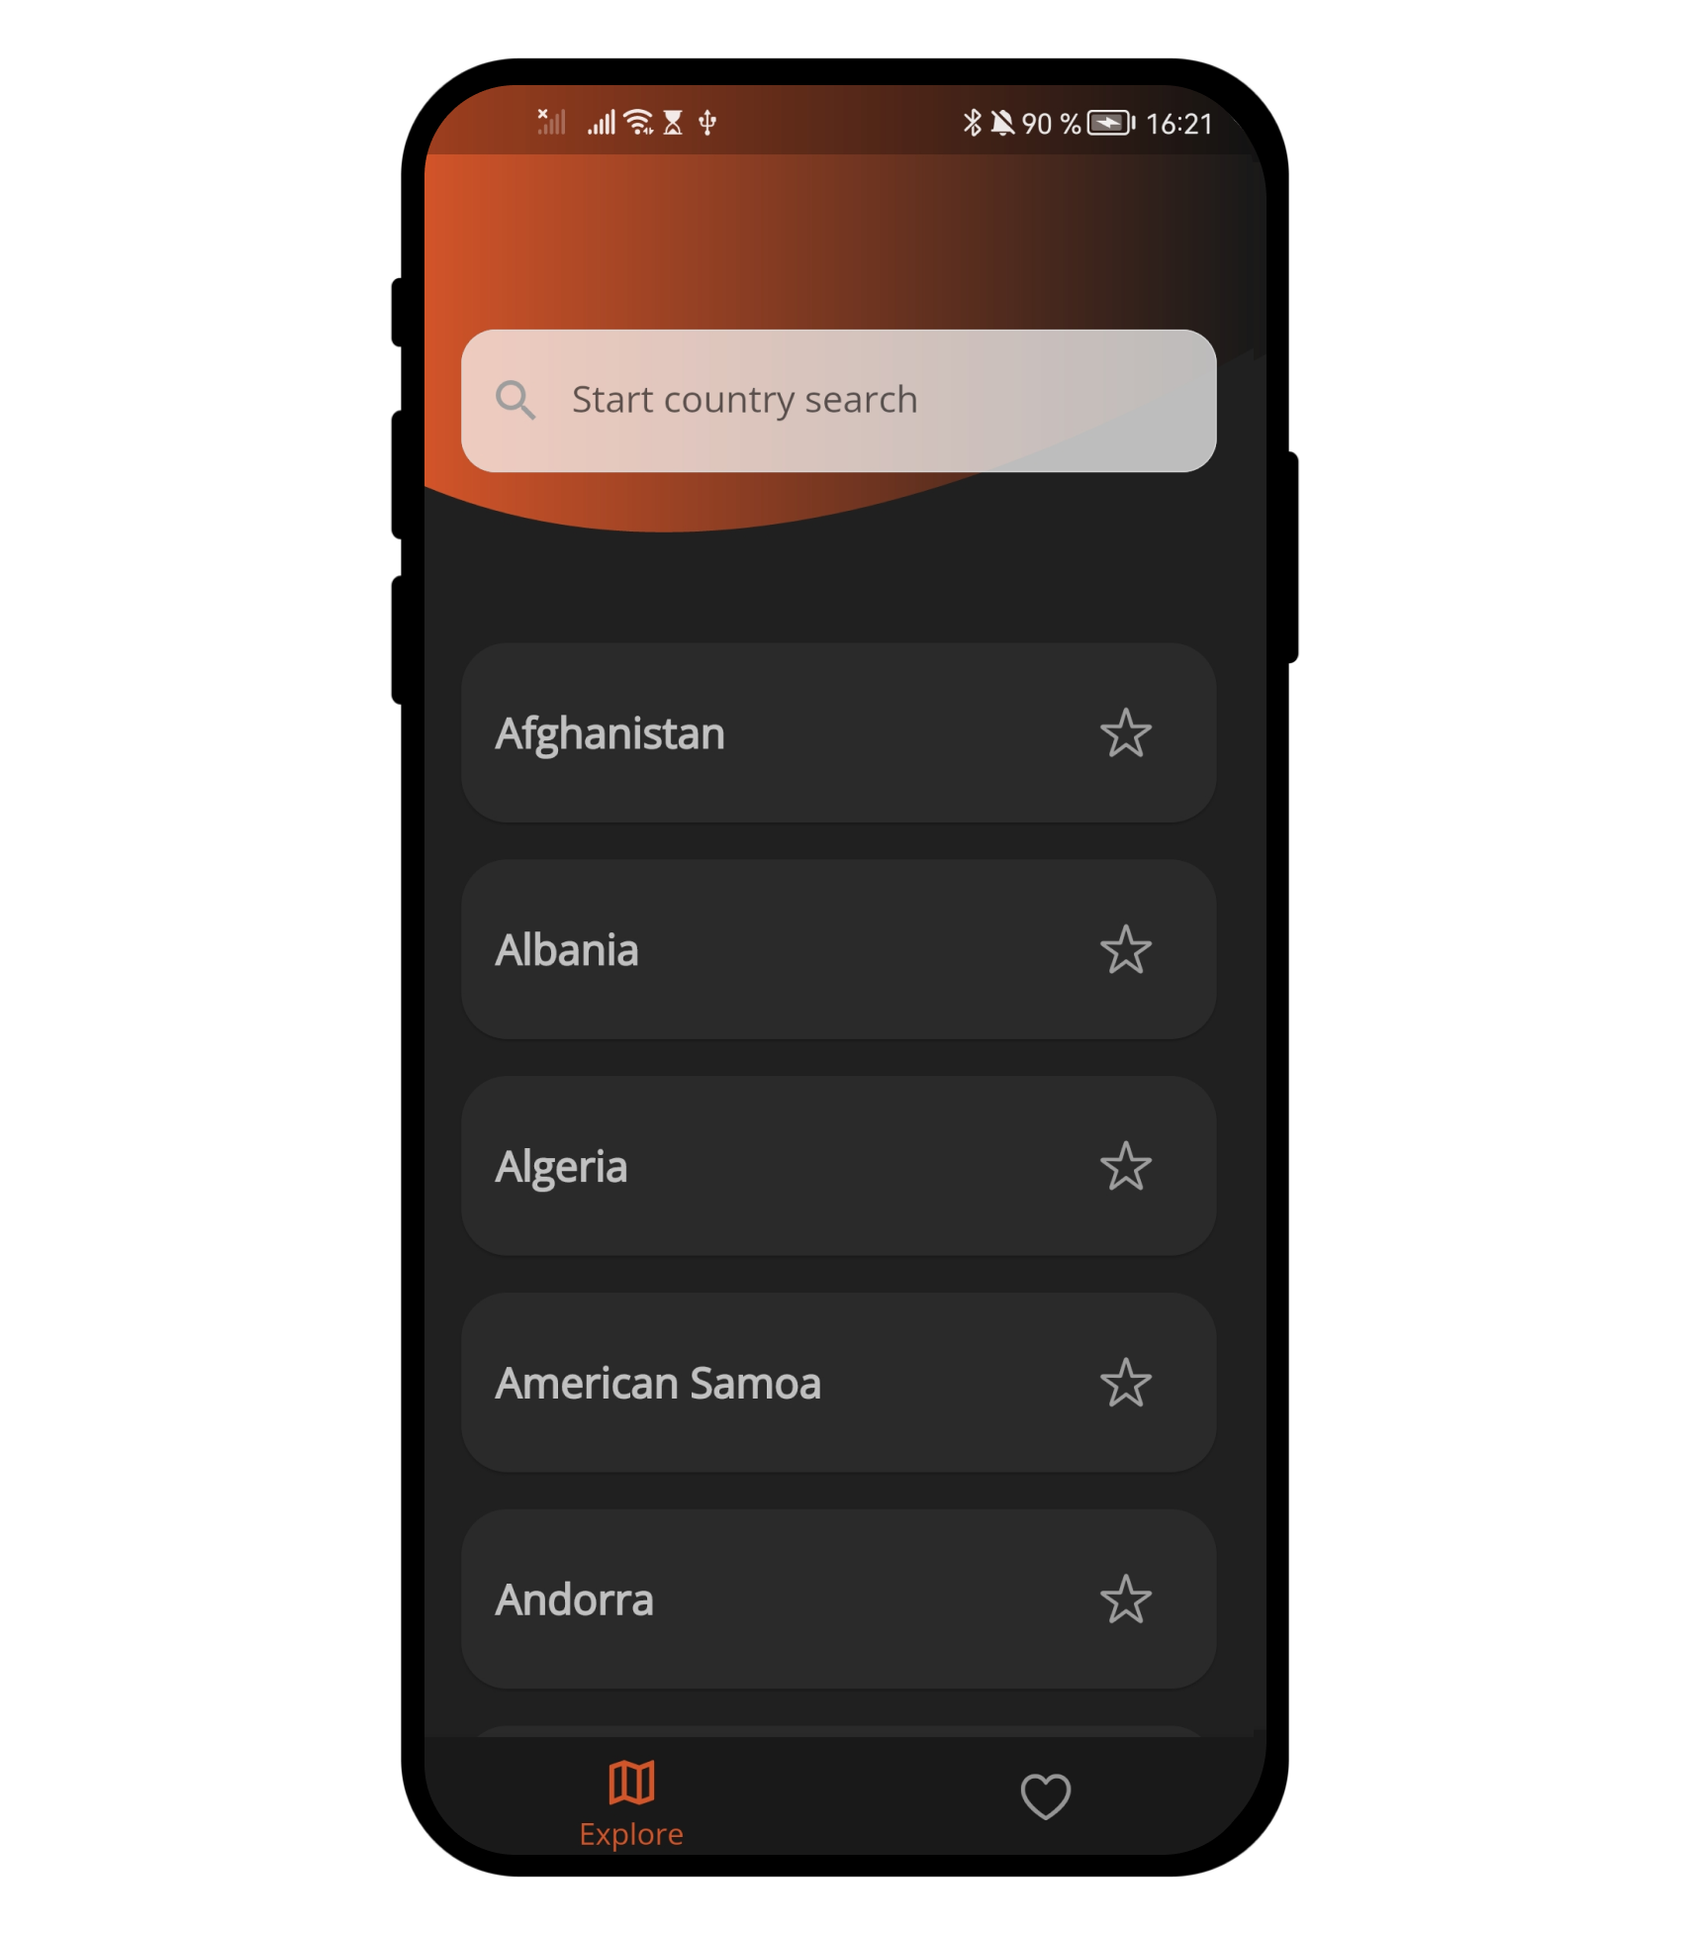
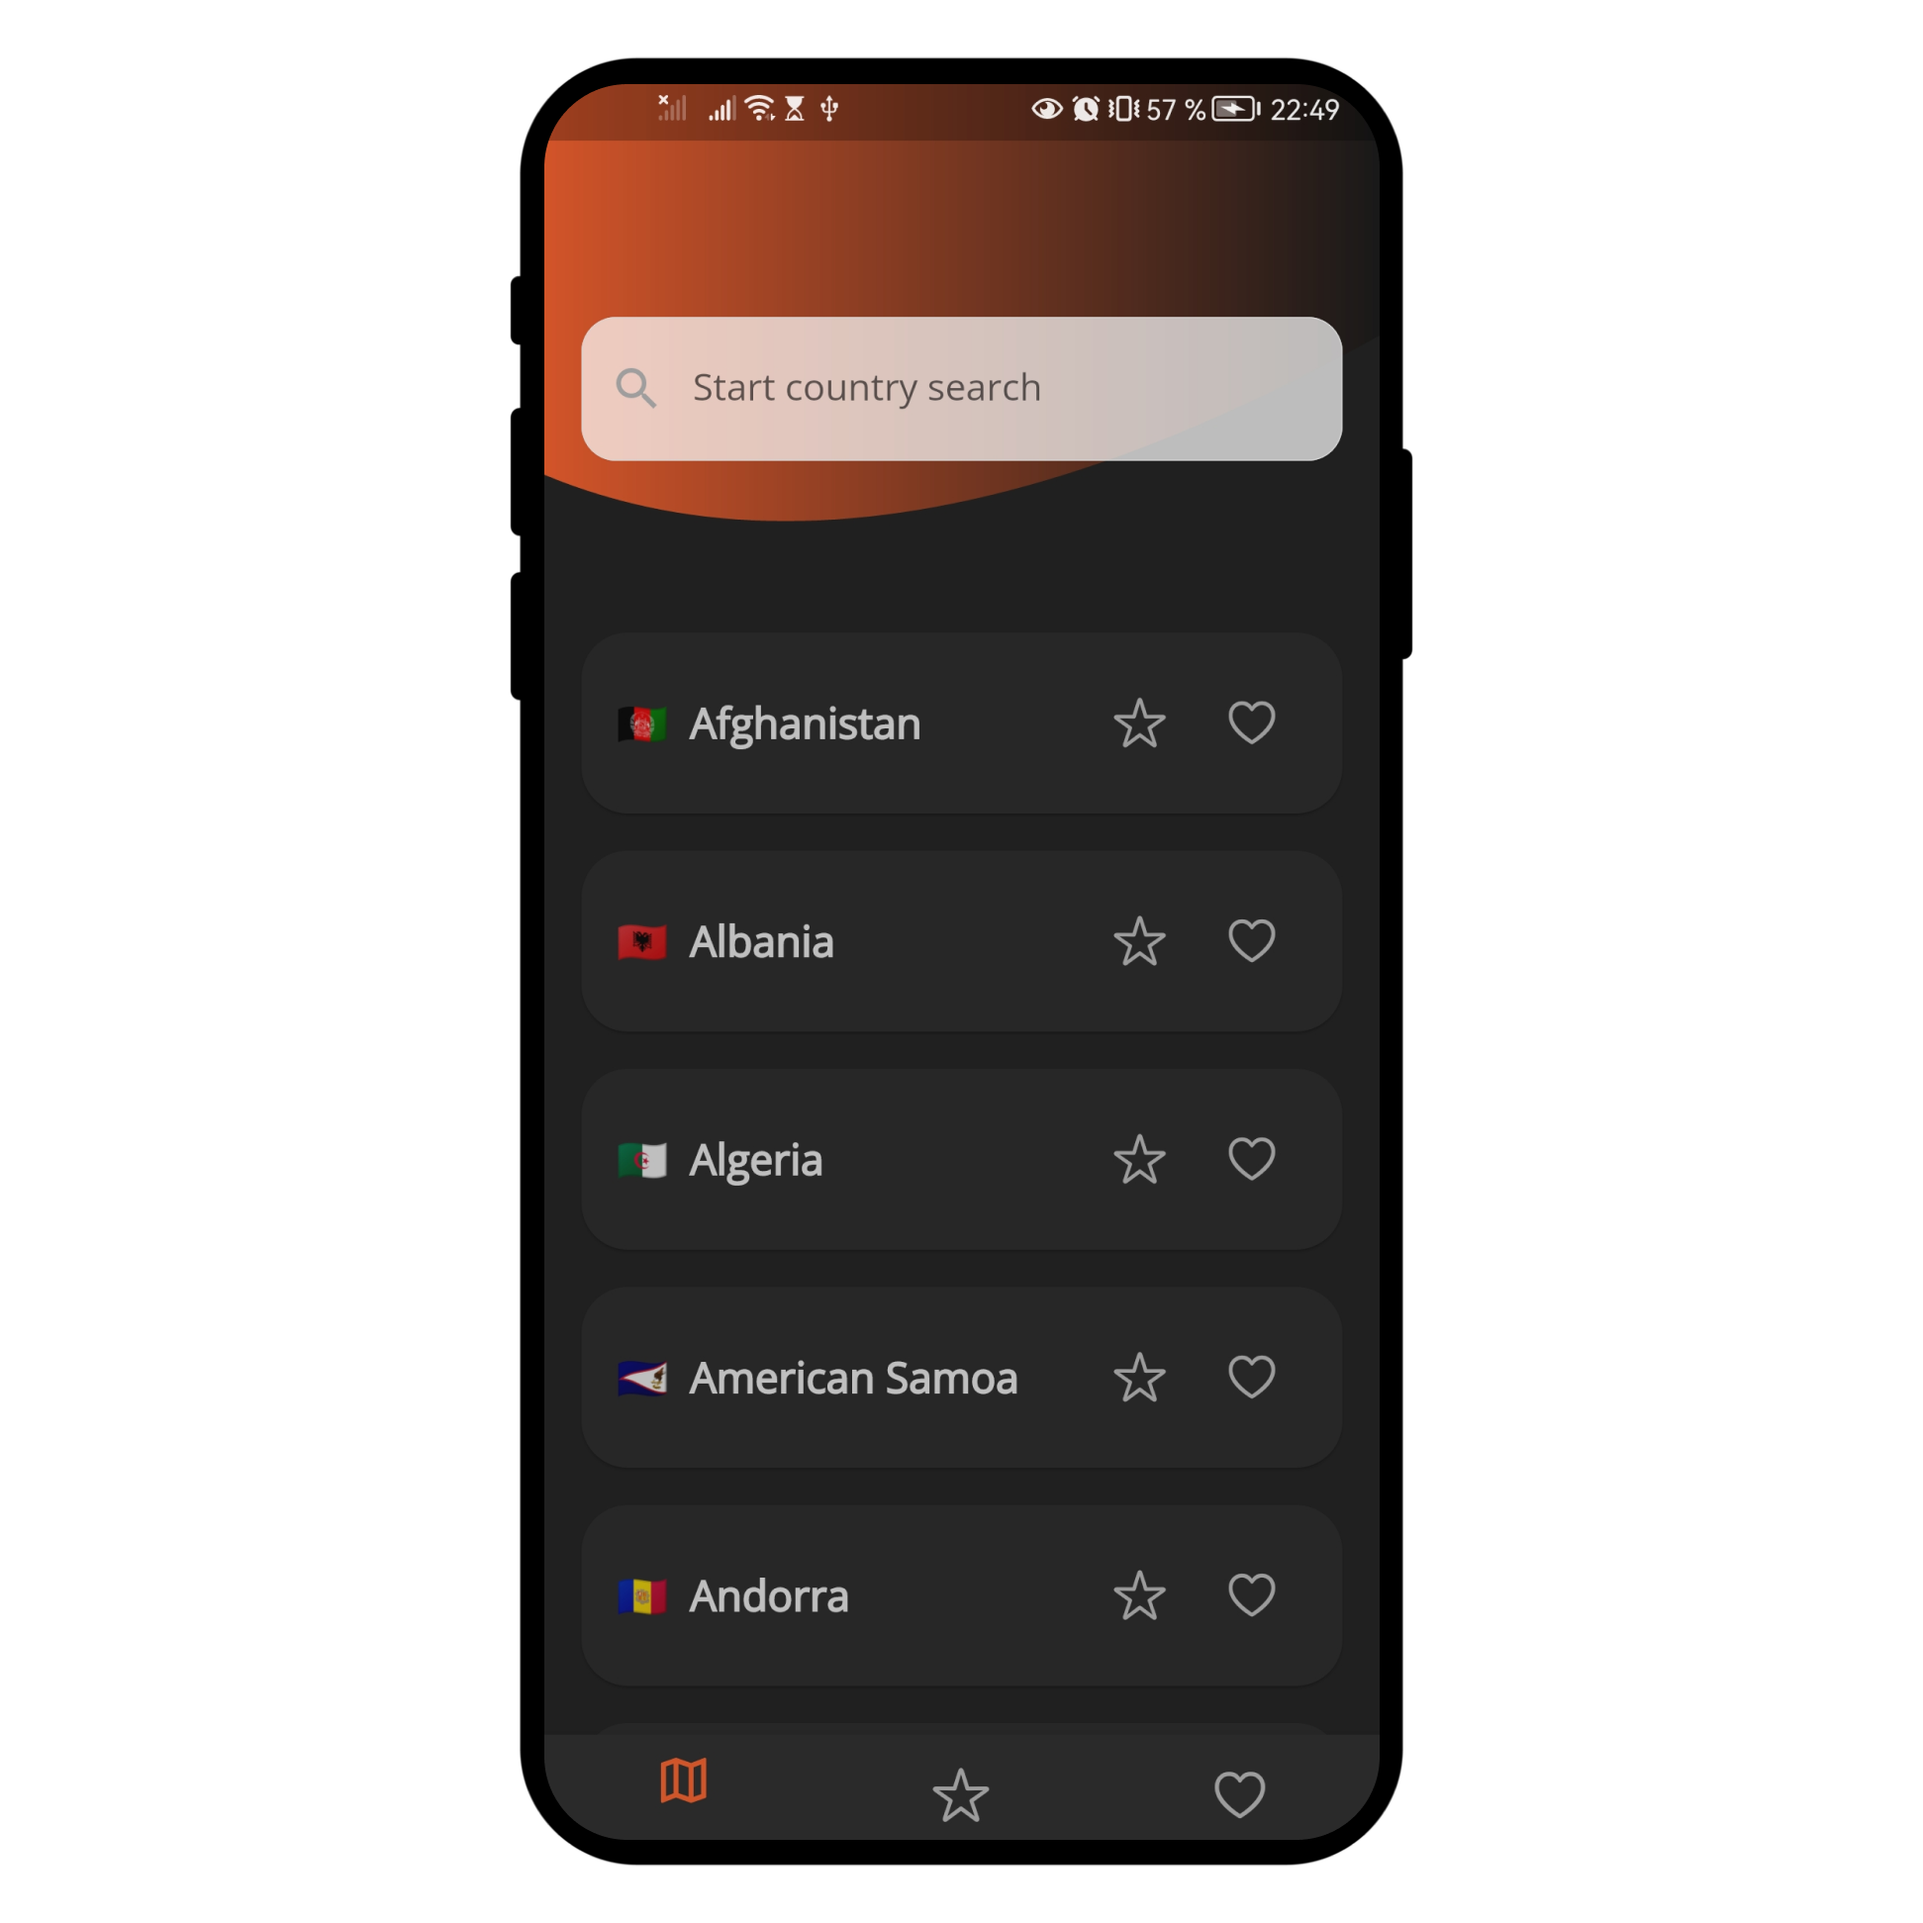
Add picture in README, add a flag of country in country page

diff --git a/lib/country_page.dart b/lib/country_page.dart
@@ -16,7 +16,14 @@ class _CountryPageState extends State<CountryPage> {
       body: Column(
         children: [
           Padding(
-            padding: const EdgeInsets.only(left: 30, right: 30, top: 20),
+            padding: const EdgeInsets.all(20),
+            child: Text(
+              widget.country.flag,
+              style: const TextStyle(fontSize: 68),
+            ),
+          ),
+          Padding(
+            padding: const EdgeInsets.only(left: 30, right: 30),
             child: ClipRRect(
               borderRadius: BorderRadius.circular(10),
               child: Container(
@@ -61,6 +68,7 @@ class _CountryPageState extends State<CountryPage> {
       ),
       backgroundColor: const Color.fromARGB(255, 32, 32, 32),
       appBar: AppBar(
+        centerTitle: true,
         iconTheme: const IconThemeData(color: Colors.white70),
         title: Text(
           widget.country.name,

diff --git a/lib/ui/home/desired_countries_screen.dart b/lib/ui/home/desired_countries_screen.dart
@@ -8,8 +8,9 @@ class DesiredCountriesScreen extends StatelessWidget {
   Widget build(BuildContext context) {
     return const Scaffold(
       backgroundColor: Color.fromARGB(255, 32, 32, 32),
-      body: ChoosenCountries(pageName: 'Countries i\'d like to visit',),
-     
+      body: ChoosenCountries(
+        pageName: 'Desired Countries',
+      ),
     );
   }
 }

diff --git a/lib/ui/home/visited_countries_screen.dart b/lib/ui/home/visited_countries_screen.dart
@@ -9,7 +9,7 @@ class VisitedCountriesScreen extends StatelessWidget {
     return const Scaffold(
       backgroundColor: Color.fromARGB(255, 32, 32, 32),
       body: ChoosenCountries(
-        pageName: 'Countries i\'ve visited',
+        pageName: 'Visited Countries',
       ),
     );
   }

diff --git a/lib/ui/common_widgets/choosen_countries_screen.dart b/lib/ui/common_widgets/choosen_countries_screen.dart
@@ -9,6 +9,7 @@ class ChoosenCountries extends StatelessWidget {
     return Scaffold(
       backgroundColor: const Color.fromARGB(255, 32, 32, 32),
       appBar: AppBar(
+        centerTitle: true,
         title: Text(
           pageName,
           style: const TextStyle(
